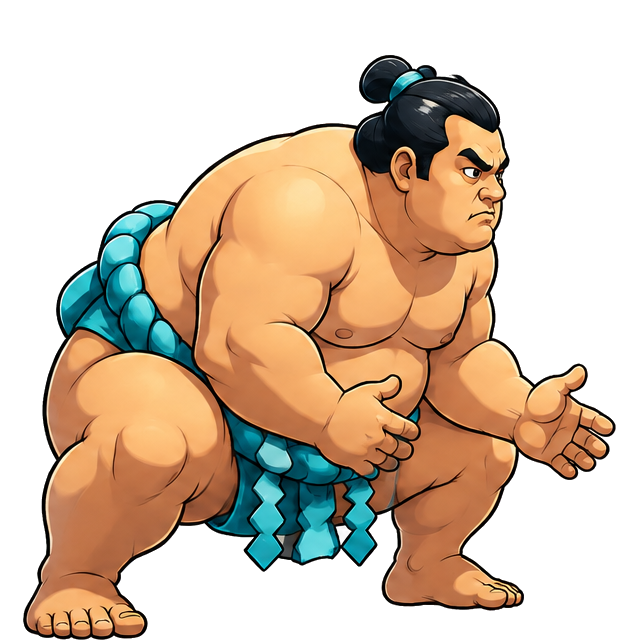
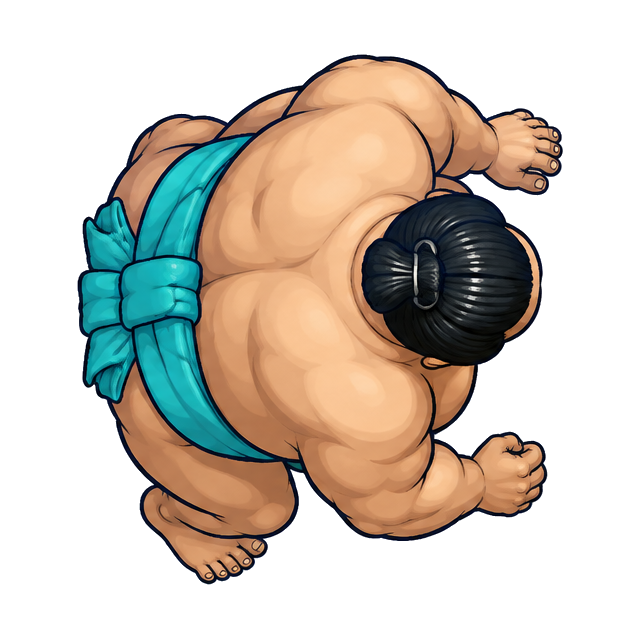
Use top-down sumo sprites for tabletop play

diff --git a/024_two-player-minigames/js/games/sumo.js b/024_two-player-minigames/js/games/sumo.js
@@ -114,10 +114,9 @@
       ctx.fillStyle = sand; ctx.beginPath(); ctx.ellipse(w / 2, ringY, ringWidth * .48, ringHeight * .42, 0, 0, Math.PI * 2); ctx.fill();
       ctx.strokeStyle = "rgba(255,247,214,.72)"; ctx.lineWidth = 2; ctx.setLineDash([6, 7]); ctx.beginPath(); ctx.moveTo(ringLeft, ringY); ctx.lineTo(ringLeft + ringWidth, ringY); ctx.stroke(); ctx.setLineDash([]);
       const size = Math.max(88, Math.min(h * .58, w * .4));
-      const wrestlerBase = ringY + ringHeight * .24;
-      this.drawWrestler(ctx, this.players[0], w, wrestlerBase, size, 0);
-      this.drawWrestler(ctx, this.players[1], w, wrestlerBase, size, 1);
-      if (this.flash > .08 && this.players[1].x - this.players[0].x < .18) this.drawImpact(ctx, w * (this.players[0].x + this.players[1].x) / 2, ringY - size * .75, size * (.3 + this.flash * .25));
+      this.drawWrestler(ctx, this.players[0], w, ringY, size, 0);
+      this.drawWrestler(ctx, this.players[1], w, ringY, size, 1);
+      if (this.flash > .08 && this.players[1].x - this.players[0].x < .18) this.drawImpact(ctx, w * (this.players[0].x + this.players[1].x) / 2, ringY, size * (.3 + this.flash * .25));
       const remaining = Math.max(0, 25 - this.elapsed); ctx.fillStyle = remaining < 6 ? "#ff5a51" : "rgba(255,248,223,.78)";
       ctx.font = `900 ${Math.max(11, h * .042)}px ui-monospace, Consolas, monospace`; ctx.textAlign = "center"; ctx.fillText(remaining.toFixed(1), w / 2, Math.max(18, h * .09)); ctx.restore();
     }
@@ -125,15 +124,15 @@
       ctx.save(); ctx.globalAlpha = .34; ctx.fillStyle = "#27d9e6"; ctx.fillRect(w * .08, 0, w * .08, h * .43); ctx.fillStyle = "#ff5a51"; ctx.fillRect(w * .84, 0, w * .08, h * .43);
       ctx.fillStyle = "rgba(255,255,255,.16)"; for (let i = 0; i < 7; i += 1) ctx.fillRect(w * (.24 + i * .09), h * .09, 2, h * .2); ctx.restore();
     }
-    drawWrestler(ctx, player, width, baseY, size, spriteIndex) {
+    drawWrestler(ctx, player, width, centerY, size, spriteIndex) {
       const x = player.x * width; const sprite = this.sprites[spriteIndex]; const squash = player.squash;
-      ctx.save(); ctx.translate(x, baseY); ctx.rotate(player.lean * .1); ctx.scale(1 + squash * .07, 1 - squash * .055);
-      ctx.fillStyle = "rgba(0,0,0,.3)"; ctx.beginPath(); ctx.ellipse(0, 0, size * .42, size * .09, 0, 0, Math.PI * 2); ctx.fill();
+      ctx.save(); ctx.translate(x, centerY); ctx.rotate(player.lean * .1); ctx.scale(1 + squash * .07, 1 - squash * .055);
+      ctx.fillStyle = "rgba(0,0,0,.24)"; ctx.beginPath(); ctx.ellipse(0, size * .04, size * .4, size * .34, 0, 0, Math.PI * 2); ctx.fill();
       if (sprite && sprite.complete && sprite.naturalWidth) {
-        ctx.drawImage(sprite, -size * .5, -size, size, size);
+        ctx.drawImage(sprite, -size * .5, -size * .5, size, size);
       } else {
         ctx.fillStyle = spriteIndex === 0 ? "#27d9e6" : "#ff5a51";
-        ctx.beginPath(); ctx.ellipse(0, -size * .42, size * .42, size * .48, 0, 0, Math.PI * 2); ctx.fill();
+        ctx.beginPath(); ctx.ellipse(0, 0, size * .42, size * .38, 0, 0, Math.PI * 2); ctx.fill();
       }
       ctx.restore();
     }

diff --git a/024_two-player-minigames/README.md b/024_two-player-minigames/README.md
@@ -1,0 +1,17 @@
+# ふたり対戦ミニゲーム 共通設計
+
+このゲーム集は、1台のスマートフォンを机に置き、2人が端末を上から見ながら向かい合って遊ぶことを基本とする。
+
+## 画面と操作
+
+- スマートフォンは縦向きのまま遊べるようにし、横向きへの切り替えを要求しない。
+- プレイヤー1の操作領域は画面上端、プレイヤー2の操作領域は画面下端に置く。
+- 上側のプレイヤーが読む表示や操作ボタンは、必要に応じて180度回転する。
+- 重要な操作は各プレイヤー側の端へ寄せ、相手の手と交差しないようにする。
+
+## ゲーム内の視点
+
+- 盤面やキャラクターは、机上の端末を真上から見た視点を基本にする。
+- キャラクター画像は俯瞰ではなく、原則としてカメラが真上90度にあるトップダウン表現にする。
+- 横視点・正面視点・背景に地平線のある画像を盤面上の操作キャラクターへ使用しない。
+- 2人の進行方向、当たり判定、演出は画面中央を軸に対称になるよう設計する。
